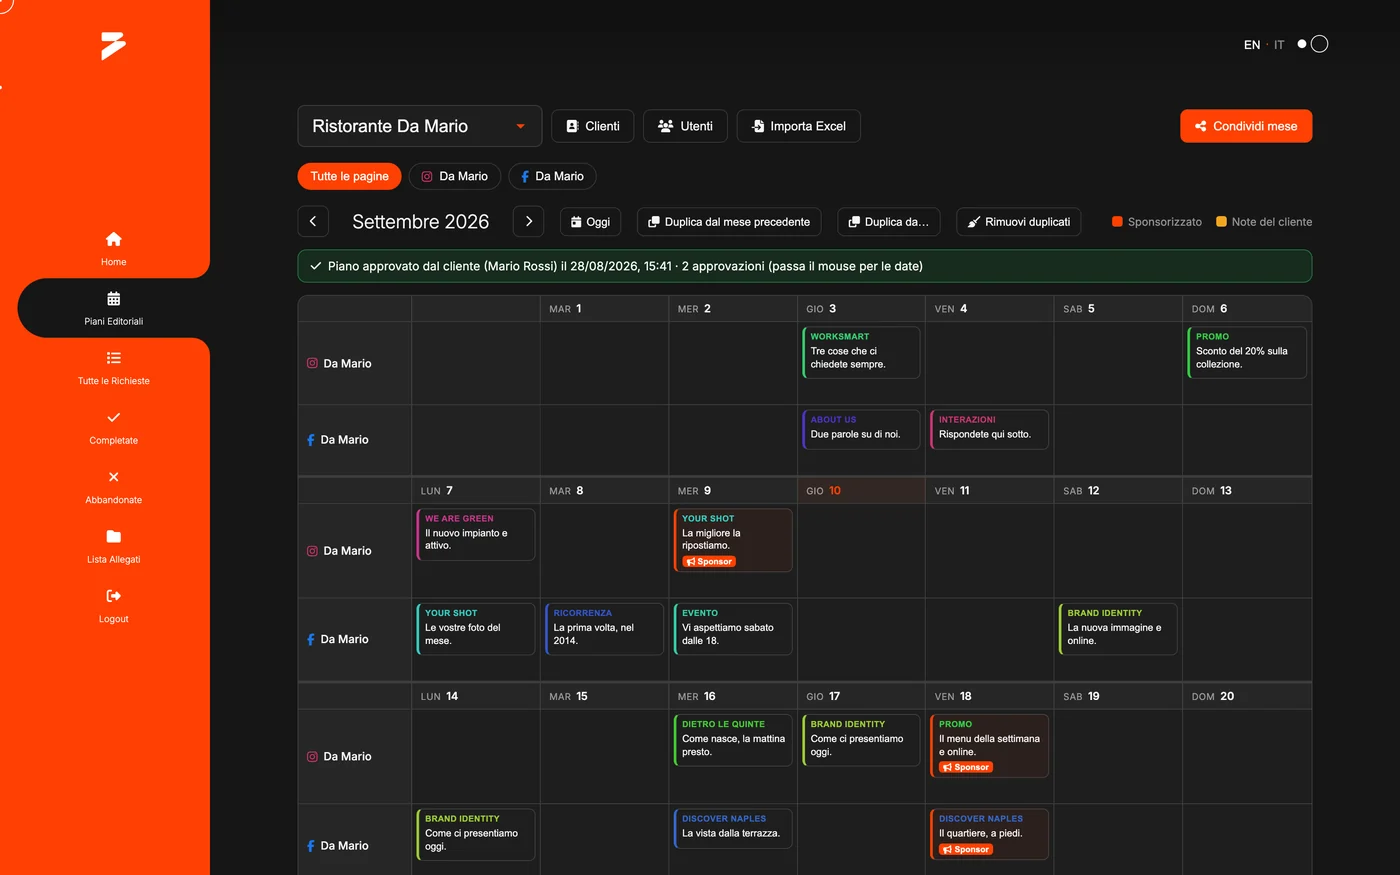
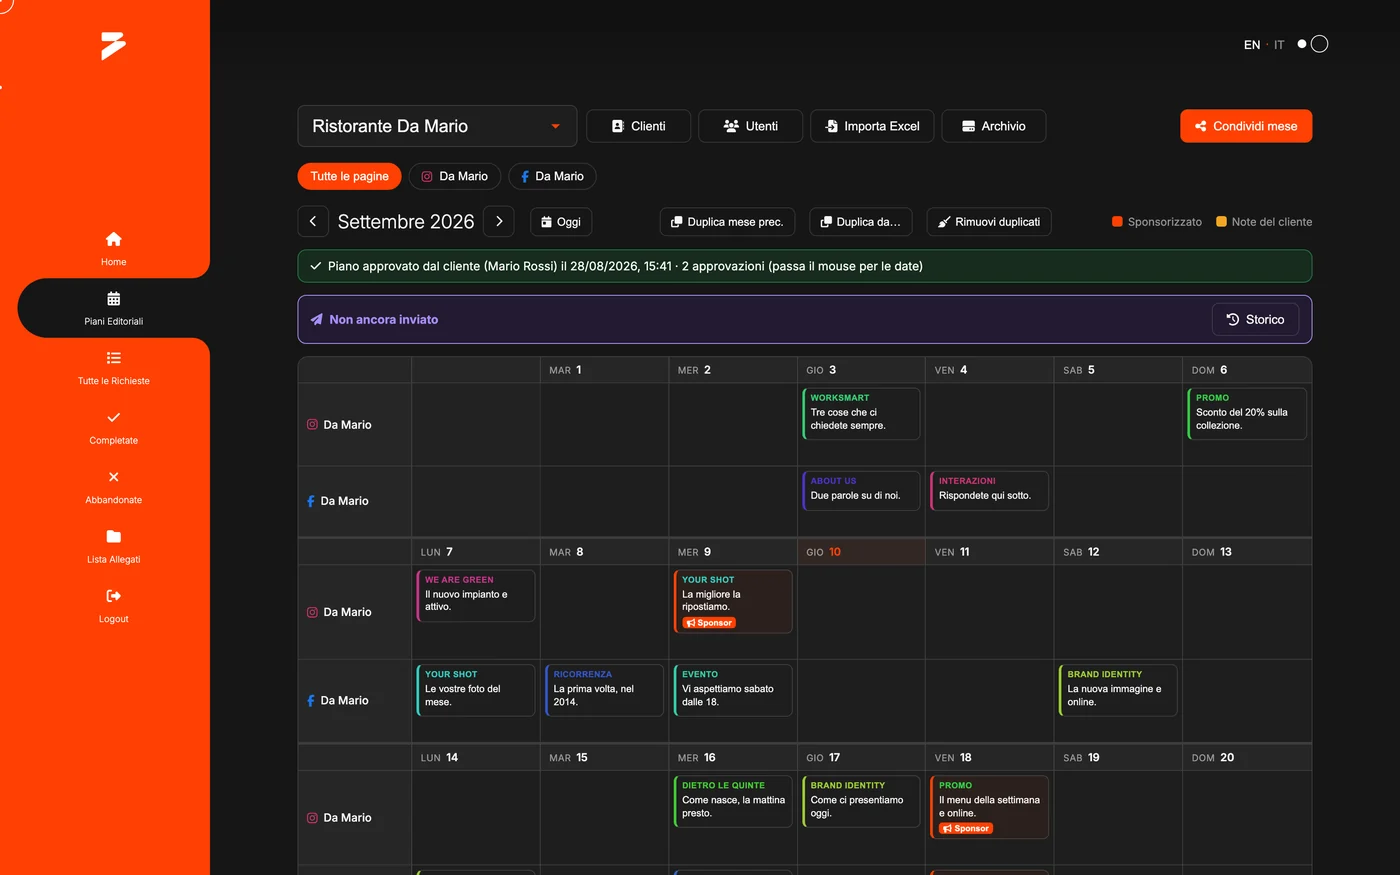
Recapture the planner: the local checkout was three months stale
You were right to ask for the pull. basic-adv main was 58 commits behind,
and the planner is where almost all of it landed: EditorialPlans.css
+954 lines, PostModal +283, and five components that did not exist when I
took the screenshots, including VersionsPanel, PlanHistoryModal and
NotificationLog.

Those are the features this case already claims. The card was saying
"every edit is a version you can restore" and "an access log proves the
client actually opened the plan" over screenshots taken before either
existed.

Recaptured on current main, with a new one: the plan history panel
showing Aperture (1) with the client's address and the timestamp. That is
the access log, on screen, doing the thing the case says it does.

The Dashboard.css fix rebased onto the new main without conflict; that
file had no upstream changes.

diff --git a/src/components/work/workData.js b/src/components/work/workData.js
@@ -28,6 +28,7 @@ import formPlan from "../../assets/badv-action-plan.webp";
 import feedbackLoop from "../../assets/badv-questions.webp";
 import plannerCalendar from "../../assets/badv-planner.webp";
 import plannerPost from "../../assets/badv-post.webp";
+import plannerAccessLog from "../../assets/badv-access-log.webp";
 import plannerApproval from "../../assets/badv-approval.webp";
 
 /* The two live sites, captured as they are today. */
@@ -100,8 +101,15 @@ export const CASES = [
             },
             {
               src: plannerPost,
-              alt: "Post editor with media, category, caption, page, date, sponsored toggle, status and notes",
-              caption: "Notes split into client-facing and internal, so an internal comment can never reach the client.",
+              alt: "Post editor with media, category, caption, page, date, sponsored toggle, status, undo and redo, and notes",
+              caption:
+                "A post open, with undo, redo and its own history. Notes split into client-facing and internal, so an internal comment can never reach the client.",
+            },
+            {
+              src: plannerAccessLog,
+              alt: "The plan history panel, listing sends and the times the client opened the plan",
+              caption:
+                "The access log: who opened the plan and when. That is what settles an argument about whether the client saw it.",
             },
             {
               src: plannerApproval,
